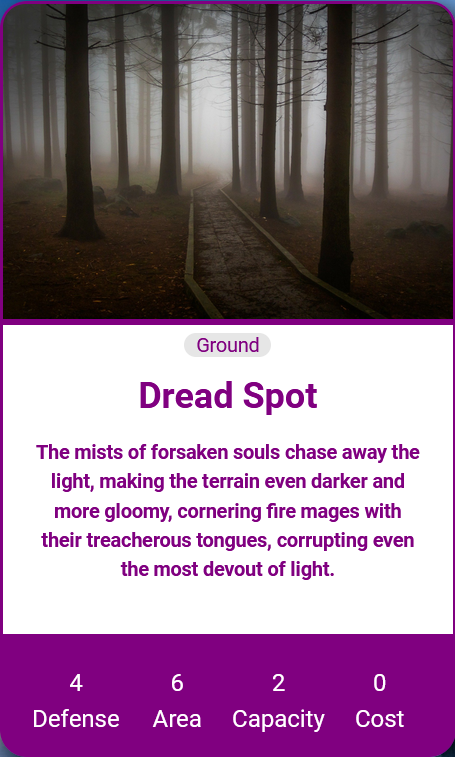
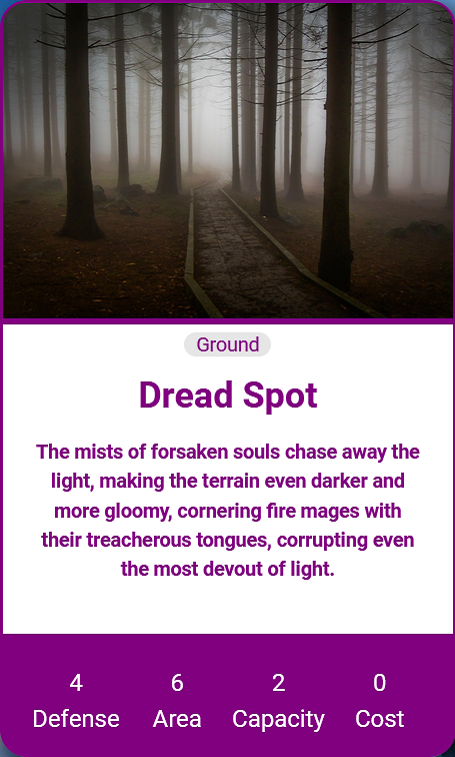
overflow-y added to cards

diff --git a/src/views/Shop.vue b/src/views/Shop.vue
@@ -1,16 +1,18 @@
 <template>
-  <div id="home" class="home">
-    <div v-for="cartinhas in list" :key="cartinhas.id" class="cards">
-      <img class="cards" :src="require(`@/assets/${cartinhas.img}`)" :alt="cartinhas.name"/> {{ cartinhas.id }} - {{ cartinhas.name }} {{ cartinhas.img }}
+  <div id="home" class="home overflow-cards flex flex-wrap center">
+    <div class="div-cards" v-for="cartinhas in list" :key="cartinhas.id">
+      <img class="cards" :src="require(`@/assets/${cartinhas.img}`)" :alt="cartinhas.name" />
     </div>
+  </div>
+  <div id="home" class="home">
     <carousel />
   </div>
 </template>
 
 <script lang="ts">
-import Carousel from '@/components/Carousel.vue';
 import useCards from '@/modules/cards';
 import { computed } from 'vue';
+import Carousel from '@/components/Carousel.vue';
 
 export default {
   components: {
@@ -43,49 +45,64 @@ export default {
   }
 }
 
-.wrapper {
-  position: relative;
-  margin-top: 8px;
-  label {
-    position: absolute;
-    font-size: 12px;
-    color: rgba(0, 0, 0, 0.5);
-    top: 8px;
-    left: 12px;
-    z-index: -1;
-    transition: 0.15s all ease-in-out;
-  }
+// .wrapper {
+//   position: relative;
+//   margin-top: 8px;
+//   label {
+//     position: absolute;
+//     font-size: 12px;
+//     color: rgba(0, 0, 0, 0.5);
+//     top: 8px;
+//     left: 12px;
+//     z-index: -1;
+//     transition: 0.15s all ease-in-out;
+//   }
 
-  input {
-    border-radius: 5px;
-    padding: 4px 12px;
-    margin-right: 10px;
-    height: 20px;
-    width: 30vw;
-    color: rgba(0, 0, 0, 0.7);
-    border: 1px solid rgb(75, 0, 67);
-    transition: 0.15s all ease-in-out;
-    background: rgba(255, 255, 255, 0.9);
-    &:focus {
-      outline: none;
-      transform: scale(1.05);
-      & + label {
-        font-size: 10px;
-        transform: translateY(-24px) translateX(-12px);
-      }
-    }
-    &::-webkit-input-placeholder {
-      font-size: 12px;
-      color: rgba(0, 0, 0, 0.5);
-      font-weight: 100;
-    }
-  }
+//   input {
+//     border-radius: 5px;
+//     padding: 4px 12px;
+//     margin-right: 10px;
+//     height: 20px;
+//     width: 30vw;
+//     color: rgba(0, 0, 0, 0.7);
+//     border: 1px solid rgb(75, 0, 67);
+//     transition: 0.15s all ease-in-out;
+//     background: rgba(255, 255, 255, 0.9);
+//     &:focus {
+//       outline: none;
+//       transform: scale(1.05);
+//       & + label {
+//         font-size: 10px;
+//         transform: translateY(-24px) translateX(-12px);
+//       }
+//     }
+//     &::-webkit-input-placeholder {
+//       font-size: 12px;
+//       color: rgba(0, 0, 0, 0.5);
+//       font-weight: 100;
+//     }
+//   }
+// }
+
+.div-cards {
+  margin:9px;
 }
 
+.overflow-cards {
+  max-height: 23vw;
+  overflow-y: auto;
+}
 .cards {
-  width: 15vw;
+  width: 13.05vw;
   height: auto;
-  border-radius: 23px;
+  border-radius: 18px;
+  box-shadow: 2px 2px 8px rgba(0, 0, 0, 0.9);
+}
+.cards:hover {
+  transform: scale(103%);
+  transition-duration: 0.3s;
+  box-shadow: 2px 2px px rgba(0, 0, 0, 0.8);
+  cursor: pointer;
 }
 
 .search-button {

diff --git a/src/App.vue b/src/App.vue
@@ -28,16 +28,31 @@ export default {
 </script>
 <style lang="scss">
 body {
-  position: relative;
+  // position: relative;
   // flex-wrap: wrap;
   background-color: black;
   background-image: url('../src/assets/forest.jpg');
-  background-repeat: no-repeat;
+  // background-repeat: no-repeat;
   background-position: initial;
   font-family: Arial, sans-serif;
   color: rgb(255, 255, 255);
   margin: 0 0 0 0 !important;
   width: 100%;
   height: 100%;
+}
+
+.center {
+  position: relative;
+  text-align: center;
+  margin: 0 auto;
+  align-items: center;
+}
+
+.flex {
+  display: flex !important;
+}
+
+.flex-wrap {
+  flex-wrap: wrap !important;
 }
 </style>

diff --git a/src/components/Carousel.vue b/src/components/Carousel.vue
@@ -11,10 +11,12 @@
     >
       <div>
         <div class="slide-div">
-          <img class="slide-img" src="@/assets/orange.jpg" alt="All cards" />
-          <div class="slide-title">
-            All cards
-          </div>
+          <router-link to="/shop">
+            <img class="slide-img" src="@/assets/orange.jpg" alt="All cards" />
+            <div class="slide-title">
+              All cards
+            </div>
+          </router-link>
         </div>
       </div>
 
@@ -69,8 +71,8 @@ import { VueAgile } from 'vue-agile';
 
 export default {
   components: {
-    agile: VueAgile,
-  },
+    agile: VueAgile
+  }
 };
 </script>
 
